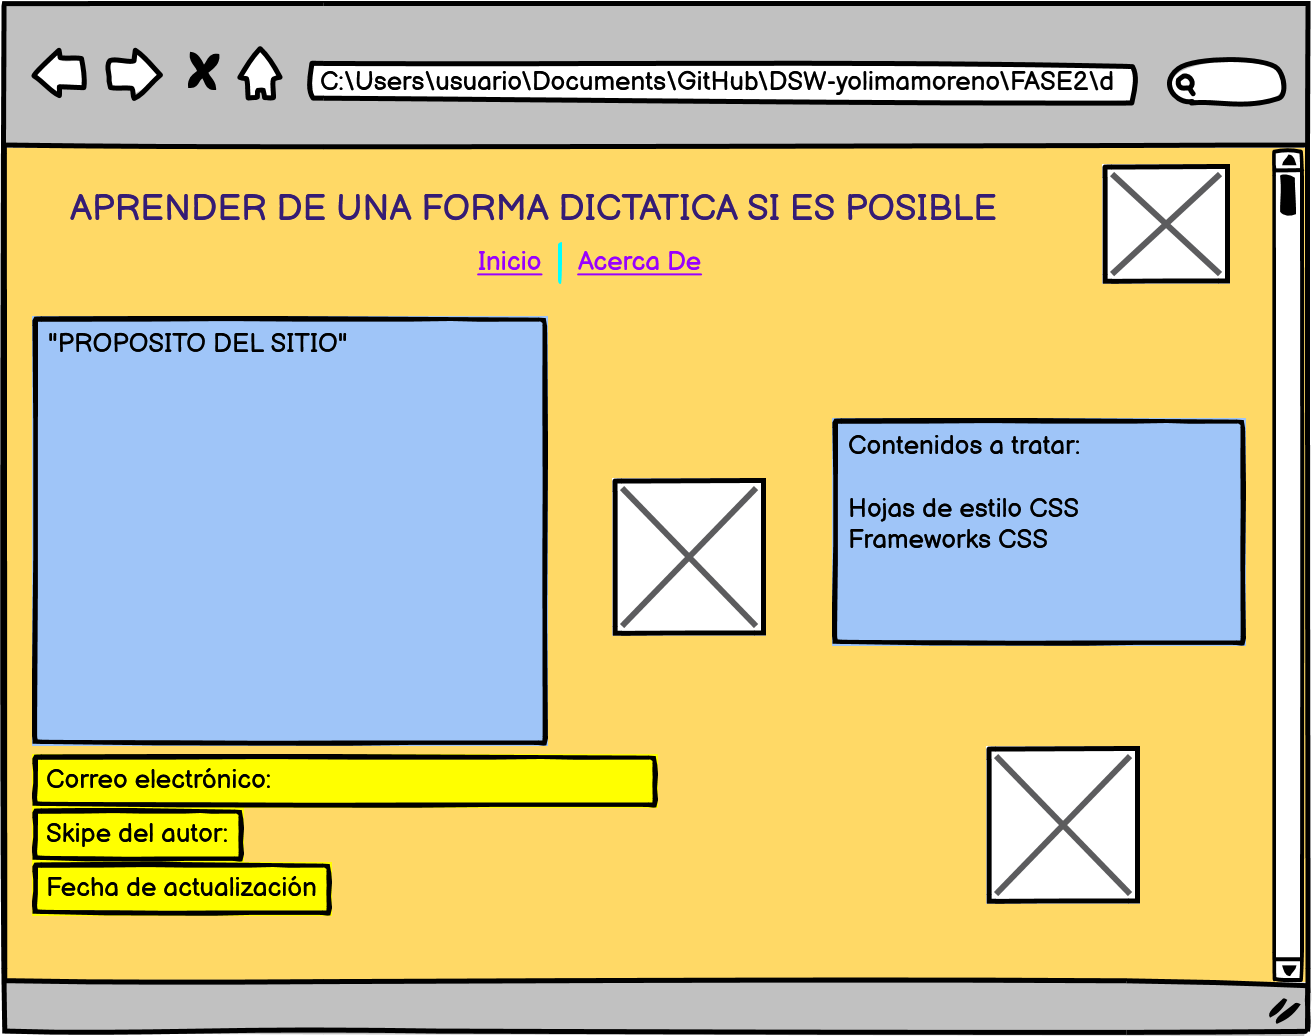
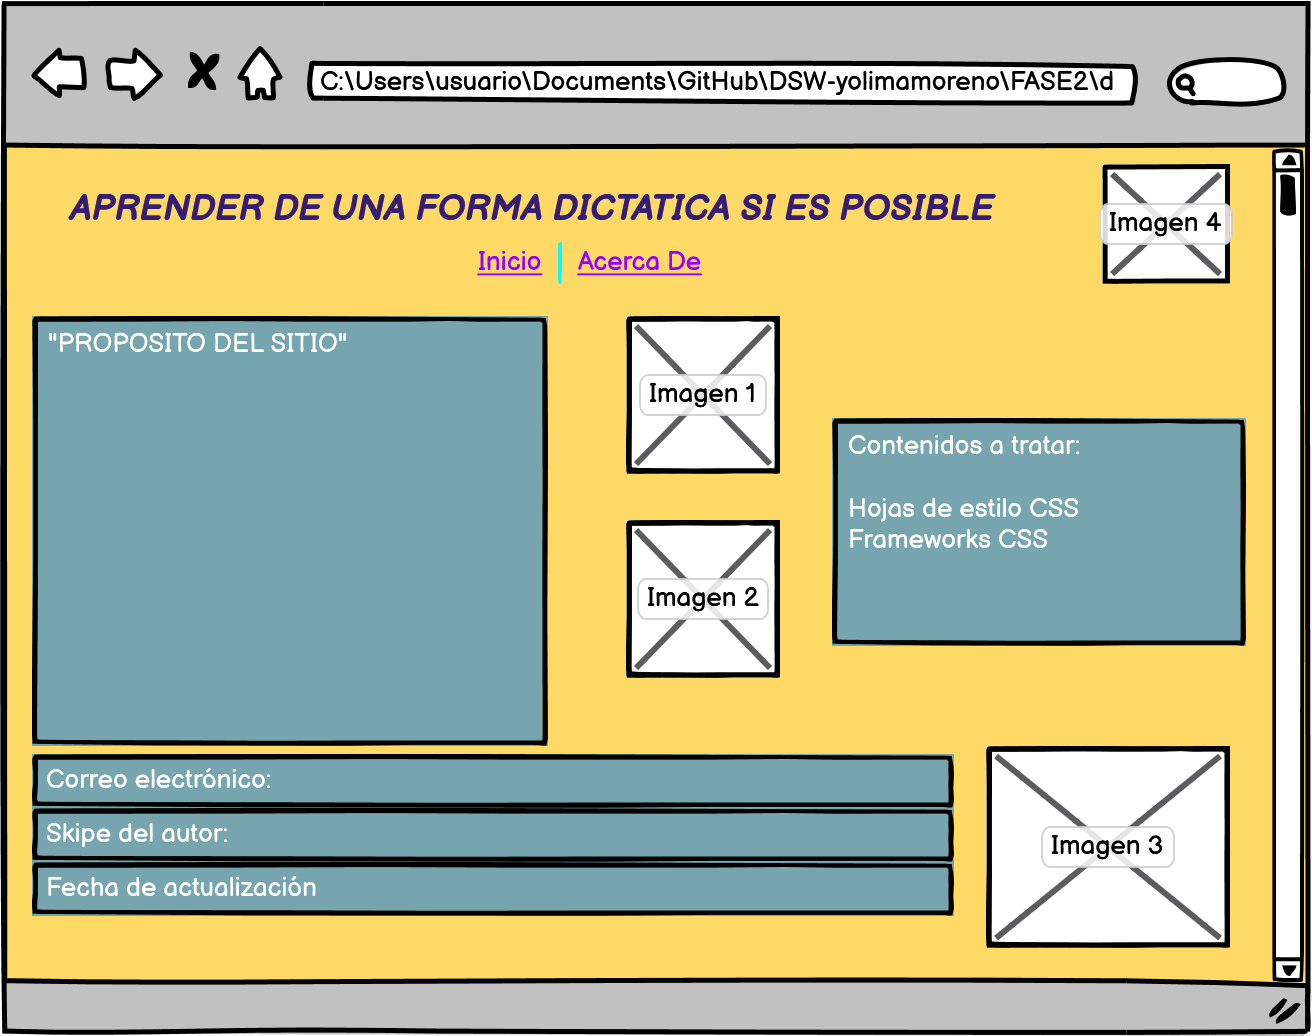
actualizado el 6 de marzo

diff --git a/FASE2/design.html b/FASE2/design.html
@@ -48,15 +48,14 @@
     <article>
         contenidos a tratar:
     </article>
-    <footer>
-        Correo Electronico: myolima250@gmail.com
-    </footer>
-    <footer>
-        Skype: 
-    </footer>
-    <footer>
-        Actualizado El 9 De Marzo Del Año 2022
-    </footer>
+    <footer class="second-footer">
+    <p>
+    &copy;Correo Electrónico:<a href="C:\Users\usuario\Documents\GitHub\DSW-yolimamoreno\DISEÑO_SITIO_WEB\index.html"target ="blank">myolima250@gmail.com</a>
+    </p>
+    <p> 
+    &copy; Skipe:
+    </p>
+    &copy; Actualizado El 9 De Marzo Del Año 2022
     <img src="Mockup.png">
 </body>
 </html>
